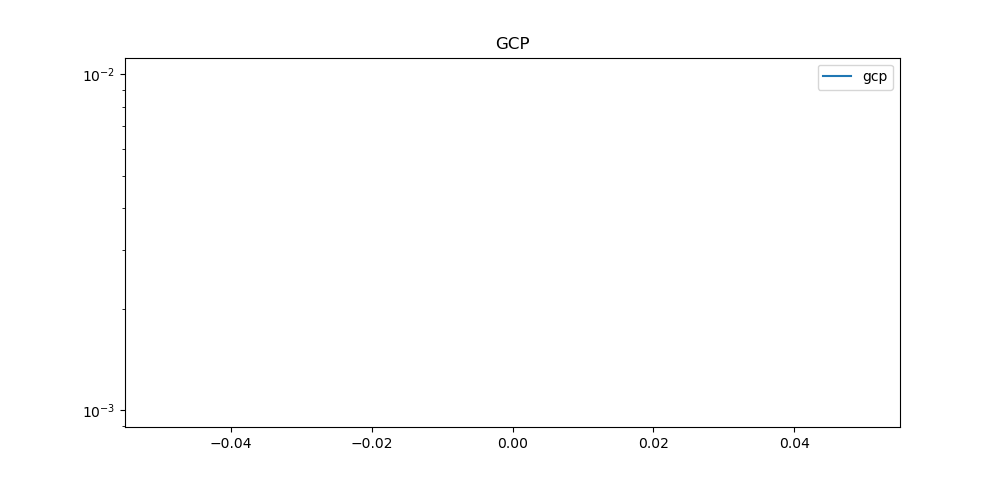
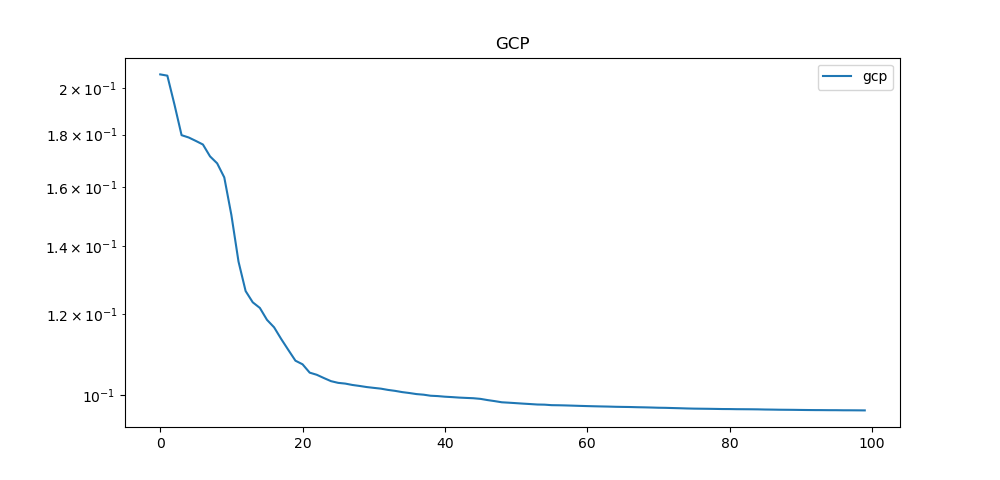
imporve tmgcp

diff --git a/tlgcp/data/tensor_dataset.py b/tlgcp/data/tensor_dataset.py
@@ -39,6 +39,10 @@ def load_indian_pines():
     in the hard drive. This dataset could be useful for non-negative constrained decomposition methods and
     classification/segmentation applications with tha available ground truth in
     http://www.ehu.eus/ccwintco/uploads/c/c4/Indian_pines_gt.mat.
+
+    Returns
+    -------
+    dictionary : [tensor, dims, reference, DESC, LICENCE]
     """
 
     url = 'http://www.ehu.eus/ccwintco/uploads/6/67/Indian_pines_corrected.mat'
@@ -65,6 +69,9 @@ def load_kinetic():
     Loads kinetic fluorescence dataset from website and returns it as tensorly tensor without storing the data
     in the hard drive.The data is well suited for Parafac and multi-way partial least squares regression (N-PLS).
 
+    Returns
+    -------
+    dictionary : [tensor, dims, reference, DESC, LICENCE]
     """
     url = 'http://models.life.ku.dk/sites/default/files/Kinetic_Fluor.zip'
     r = requests.get(url, allow_redirects=True)
@@ -93,6 +100,10 @@ def load_rainfall():
     """
     Loads india rainfall dataset from csv file and turns into a tensor. This data is suitable for
     missing data challenge.
+
+    Returns
+    -------
+    dictionary : [tensor, dims, reference, DESC, LICENCE]
     """
     path = dirname(__file__)
     df = pandas.read_csv(path + "/rainfall_india.csv")
@@ -107,7 +118,7 @@ def load_rainfall():
                 tensor[j, i, :] = c[row, 2:14]
     return Bunch(
         tensor=tensor,
-        dims=["division", "todo", "month"],
+        dims=["division", "year", "month"],
         reference="https://www.kaggle.com/datasets/rajanand/rainfall-in-india",
         DESC="This data set contains monthly rainfall detail of 36 meteorological sub-divisions of India",
         LICENCE="CC BY-SA 4.0, https://data.gov.in/government-open-data-license-india")
@@ -115,8 +126,12 @@ def load_rainfall():
 
 def load_chicago_crime():
     """
-    Loads chicago crime dataset from website and returns it as tensorly tensor without storing the data
+    Loads chicago crime dataset from website and returns it as a tensorly tensor without storing the data
     in the hard drive.The data is well suited for sparse decomposition.
+
+    Returns
+    -------
+    dictionary : [tensor, dims, reference, DESC, LICENCE]
     """
     url = 'https://s3.us-east-2.amazonaws.com/frostt/frostt_data/chicago-crime/comm/chicago-crime-comm.tns.gz'
     r = requests.get(url, allow_redirects=True)

diff --git a/doc/source/auto_examples/plot_masking_rainfall_data.py b/doc/source/auto_examples/plot_masking_rainfall_data.py
@@ -29,18 +29,19 @@ def each_iteration(a, title):
 
 
 def plot_components(f, title):
+    fig, axs = plt.subplots(5, 3)
     for j in range(5):
-        fig, (ax1, ax2, ax3) = plt.subplots(1, 3)
         fig.set_size_inches(15, fig.get_figheight(), forward=True)
-        fig.suptitle(str(title) + ' ' + 'Rank' + ' ' + str(j+1))
-        ax1.bar(np.arange(36),height=f[0][:, j], color='r')
-        ax2.plot(f[1][:, j], 'o-')
-        ax3.bar(np.arange(12), height=f[2][:, j], color='b')
+        fig.suptitle(str(title))
+        axs[j, 0].bar(np.arange(36), height=f[0][:, j], color='r')
+        axs[j, 1].plot(f[1][:, j], 'o-')
+        axs[j, 2].bar(np.arange(12), height=f[2][:, j], color='b')
 
 ##############################################################################
-# Here, we use india rainfall dataset which ahs some missing values in it.
-# If data doesn't come with a mask, we need to create it ourselves by looking to nan values
-# in data.
+# Here, we use india rainfall dataset which has some missing values in it.
+# If data doesn't come with a mask, we need to create it ourselves e.g. by searching
+# the nan values in data.
+
 
 tensor = get_tensor("rainfall")
 mask = tl.ones(tl.shape(tensor))
@@ -50,7 +51,7 @@ tensor[np.isnan(tensor)] = 0
 # Parameters
 rank = 5
 init = 'random'
-loss = 'gamma'
+loss = 'gaussian'
 
 ##############################################################################
 # Both GCP and SGCP allow us to use mask. Here, we will use only GCP.
@@ -83,6 +84,11 @@ print("NN-CP time:", time_cp)
 
 ############################################################
 # Here, we plot components of the factors for interpretation.
+# Here GCP components,
 
 plot_components(factorsgcp, 'GCP')
+
+############################################################
+# and NN-CP components;
+
 plot_components(factors, 'NN-Parafac')

diff --git a/doc/source/examples/plot_masking_rainfall_data.py b/doc/source/examples/plot_masking_rainfall_data.py
@@ -29,18 +29,19 @@ def each_iteration(a, title):
 
 
 def plot_components(f, title):
+    fig, axs = plt.subplots(5, 3)
     for j in range(5):
-        fig, (ax1, ax2, ax3) = plt.subplots(1, 3)
         fig.set_size_inches(15, fig.get_figheight(), forward=True)
-        fig.suptitle(str(title) + ' ' + 'Rank' + ' ' + str(j+1))
-        ax1.bar(np.arange(36),height=f[0][:, j], color='r')
-        ax2.plot(f[1][:, j], 'o-')
-        ax3.bar(np.arange(12), height=f[2][:, j], color='b')
+        fig.suptitle(str(title))
+        axs[j, 0].bar(np.arange(36), height=f[0][:, j], color='r')
+        axs[j, 1].plot(f[1][:, j], 'o-')
+        axs[j, 2].bar(np.arange(12), height=f[2][:, j], color='b')
 
 ##############################################################################
-# Here, we use india rainfall dataset which ahs some missing values in it.
-# If data doesn't come with a mask, we need to create it ourselves by looking to nan values
-# in data.
+# Here, we use india rainfall dataset which has some missing values in it.
+# If data doesn't come with a mask, we need to create it ourselves e.g. by searching
+# the nan values in data.
+
 
 tensor = get_tensor("rainfall")
 mask = tl.ones(tl.shape(tensor))
@@ -50,7 +51,7 @@ tensor[np.isnan(tensor)] = 0
 # Parameters
 rank = 5
 init = 'random'
-loss = 'gamma'
+loss = 'gaussian'
 
 ##############################################################################
 # Both GCP and SGCP allow us to use mask. Here, we will use only GCP.
@@ -83,6 +84,11 @@ print("NN-CP time:", time_cp)
 
 ############################################################
 # Here, we plot components of the factors for interpretation.
+# Here GCP components,
 
 plot_components(factorsgcp, 'GCP')
+
+############################################################
+# and NN-CP components;
+
 plot_components(factors, 'NN-Parafac')

diff --git a/tlgcp/utils/_lbfgs.py b/tlgcp/utils/_lbfgs.py
@@ -31,7 +31,7 @@ def lbfgs(loss, x0, gradient=None, n_iter_max=100, non_negative=False, norm=1.0)
     Currently, it supports only numpy backend, but it could be improved for other backends as well.
 
     * pytorch: imposing non-negative constraint not good also it fails for some losses because of the backward part, probably.
-    * tensorflow: There is no option for constrained loss, and it doesn't return error per iteration. Besides, tensorflow_probability library is a requirement.
+    * tensorflow: There is no option for constrained loss, and it doesn't return error per iteration. Besides, tensorflow_probability library is a dependency.
     * jax: jax.scipy.minimize only supports bfgs according to website (https://jax.readthedocs.io/en/latest/_autosummary/jax.scipy.optimize.minimize.html). However, there are some attempts to add lbfgs (https://github.com/google/jax/pull/6053).
     * mxnet: This issue can be followed. https://github.com/apache/incubator-mxnet/issues/9182
     """

diff --git a/doc/source/auto_examples/plot_masking_rainfall_data.rst b/doc/source/auto_examples/plot_masking_rainfall_data.rst
@@ -53,13 +53,13 @@ Missing values can be handled through GCP decomposition by masking them.
 
 
     def plot_components(f, title):
+        fig, axs = plt.subplots(5, 3)
         for j in range(5):
-            fig, (ax1, ax2, ax3) = plt.subplots(1, 3)
             fig.set_size_inches(15, fig.get_figheight(), forward=True)
-            fig.suptitle(str(title) + ' ' + 'Rank' + ' ' + str(j+1))
-            ax1.bar(np.arange(36),height=f[0][:, j], color='r')
-            ax2.plot(f[1][:, j], 'o-')
-            ax3.bar(np.arange(12), height=f[2][:, j], color='b')
+            fig.suptitle(str(title))
+            axs[j, 0].bar(np.arange(36), height=f[0][:, j], color='r')
+            axs[j, 1].plot(f[1][:, j], 'o-')
+            axs[j, 2].bar(np.arange(12), height=f[2][:, j], color='b')
 
 
 
@@ -70,13 +70,14 @@ Missing values can be handled through GCP decomposition by masking them.
 
 .. GENERATED FROM PYTHON SOURCE LINES 41-44
 
-Here, we use india rainfall dataset which ahs some missing values in it.
-If data doesn't come with a mask, we need to create it ourselves by looking to nan values
-in data.
+Here, we use india rainfall dataset which has some missing values in it.
+If data doesn't come with a mask, we need to create it ourselves e.g. by searching
+the nan values in data.
 
-.. GENERATED FROM PYTHON SOURCE LINES 44-55
+.. GENERATED FROM PYTHON SOURCE LINES 44-56
 
 .. code-block:: default
+
 
 
     tensor = get_tensor("rainfall")
@@ -87,7 +88,7 @@ in data.
     # Parameters
     rank = 5
     init = 'random'
-    loss = 'gamma'
+    loss = 'gaussian'
 
 
 
@@ -96,11 +97,11 @@ in data.
 
 
 
-.. GENERATED FROM PYTHON SOURCE LINES 56-57
+.. GENERATED FROM PYTHON SOURCE LINES 57-58
 
 Both GCP and SGCP allow us to use mask. Here, we will use only GCP.
 
-.. GENERATED FROM PYTHON SOURCE LINES 57-84
+.. GENERATED FROM PYTHON SOURCE LINES 58-85
 
 .. code-block:: default
 
@@ -158,100 +159,55 @@ Both GCP and SGCP allow us to use mask. Here, we will use only GCP.
 
  .. code-block:: none
 
-    RMSE for GCP: 210.98159025273918
-    RMSE for NN-CP: 69.20244982400935
-    GCP time: 0.14778685569763184
-    NN-CP time: 0.4366908073425293
+    RMSE for GCP: 68.13162666364799
+    RMSE for NN-CP: 69.20314856218323
+    GCP time: 0.3781435489654541
+    NN-CP time: 0.5225670337677002
 
 
 
 
-.. GENERATED FROM PYTHON SOURCE LINES 85-86
+.. GENERATED FROM PYTHON SOURCE LINES 86-88
 
 Here, we plot components of the factors for interpretation.
+Here GCP components,
 
-.. GENERATED FROM PYTHON SOURCE LINES 86-89
+.. GENERATED FROM PYTHON SOURCE LINES 88-91
 
 .. code-block:: default
 
 
     plot_components(factorsgcp, 'GCP')
+
+
+
+
+.. image-sg:: /auto_examples/images/sphx_glr_plot_masking_rainfall_data_003.png
+   :alt: GCP
+   :srcset: /auto_examples/images/sphx_glr_plot_masking_rainfall_data_003.png
+   :class: sphx-glr-single-img
+
+
+
+
+
+.. GENERATED FROM PYTHON SOURCE LINES 92-93
+
+and NN-CP components;
+
+.. GENERATED FROM PYTHON SOURCE LINES 93-95
+
+.. code-block:: default
+
+
     plot_components(factors, 'NN-Parafac')
 
 
 
-.. rst-class:: sphx-glr-horizontal
-
-
-    *
-
-      .. image-sg:: /auto_examples/images/sphx_glr_plot_masking_rainfall_data_003.png
-         :alt: GCP Rank 1
-         :srcset: /auto_examples/images/sphx_glr_plot_masking_rainfall_data_003.png
-         :class: sphx-glr-multi-img
-
-    *
-
-      .. image-sg:: /auto_examples/images/sphx_glr_plot_masking_rainfall_data_004.png
-         :alt: GCP Rank 2
-         :srcset: /auto_examples/images/sphx_glr_plot_masking_rainfall_data_004.png
-         :class: sphx-glr-multi-img
-
-    *
-
-      .. image-sg:: /auto_examples/images/sphx_glr_plot_masking_rainfall_data_005.png
-         :alt: GCP Rank 3
-         :srcset: /auto_examples/images/sphx_glr_plot_masking_rainfall_data_005.png
-         :class: sphx-glr-multi-img
-
-    *
-
-      .. image-sg:: /auto_examples/images/sphx_glr_plot_masking_rainfall_data_006.png
-         :alt: GCP Rank 4
-         :srcset: /auto_examples/images/sphx_glr_plot_masking_rainfall_data_006.png
-         :class: sphx-glr-multi-img
-
-    *
-
-      .. image-sg:: /auto_examples/images/sphx_glr_plot_masking_rainfall_data_007.png
-         :alt: GCP Rank 5
-         :srcset: /auto_examples/images/sphx_glr_plot_masking_rainfall_data_007.png
-         :class: sphx-glr-multi-img
-
-    *
-
-      .. image-sg:: /auto_examples/images/sphx_glr_plot_masking_rainfall_data_008.png
-         :alt: NN-Parafac Rank 1
-         :srcset: /auto_examples/images/sphx_glr_plot_masking_rainfall_data_008.png
-         :class: sphx-glr-multi-img
-
-    *
-
-      .. image-sg:: /auto_examples/images/sphx_glr_plot_masking_rainfall_data_009.png
-         :alt: NN-Parafac Rank 2
-         :srcset: /auto_examples/images/sphx_glr_plot_masking_rainfall_data_009.png
-         :class: sphx-glr-multi-img
-
-    *
-
-      .. image-sg:: /auto_examples/images/sphx_glr_plot_masking_rainfall_data_010.png
-         :alt: NN-Parafac Rank 3
-         :srcset: /auto_examples/images/sphx_glr_plot_masking_rainfall_data_010.png
-         :class: sphx-glr-multi-img
-
-    *
-
-      .. image-sg:: /auto_examples/images/sphx_glr_plot_masking_rainfall_data_011.png
-         :alt: NN-Parafac Rank 4
-         :srcset: /auto_examples/images/sphx_glr_plot_masking_rainfall_data_011.png
-         :class: sphx-glr-multi-img
-
-    *
-
-      .. image-sg:: /auto_examples/images/sphx_glr_plot_masking_rainfall_data_012.png
-         :alt: NN-Parafac Rank 5
-         :srcset: /auto_examples/images/sphx_glr_plot_masking_rainfall_data_012.png
-         :class: sphx-glr-multi-img
+.. image-sg:: /auto_examples/images/sphx_glr_plot_masking_rainfall_data_004.png
+   :alt: NN-Parafac
+   :srcset: /auto_examples/images/sphx_glr_plot_masking_rainfall_data_004.png
+   :class: sphx-glr-single-img
 
 
 
@@ -260,7 +216,7 @@ Here, we plot components of the factors for interpretation.
 
 .. rst-class:: sphx-glr-timing
 
-   **Total running time of the script:** ( 0 minutes  5.144 seconds)
+   **Total running time of the script:** ( 0 minutes  4.968 seconds)
 
 
 .. _sphx_glr_download_auto_examples_plot_masking_rainfall_data.py:

diff --git a/doc/source/auto_examples/sg_execution_times.rst b/doc/source/auto_examples/sg_execution_times.rst
@@ -5,10 +5,10 @@
 
 Computation times
 =================
-**00:05.144** total execution time for **auto_examples** files:
+**00:04.968** total execution time for **auto_examples** files:
 
 +-------------------------------------------------------------------------------------------------+-----------+--------+
-| :ref:`sphx_glr_auto_examples_plot_masking_rainfall_data.py` (``plot_masking_rainfall_data.py``) | 00:05.144 | 0.0 MB |
+| :ref:`sphx_glr_auto_examples_plot_masking_rainfall_data.py` (``plot_masking_rainfall_data.py``) | 00:04.968 | 0.0 MB |
 +-------------------------------------------------------------------------------------------------+-----------+--------+
 | :ref:`sphx_glr_auto_examples_plot_generalized_parafac.py` (``plot_generalized_parafac.py``)     | 00:00.000 | 0.0 MB |
 +-------------------------------------------------------------------------------------------------+-----------+--------+
